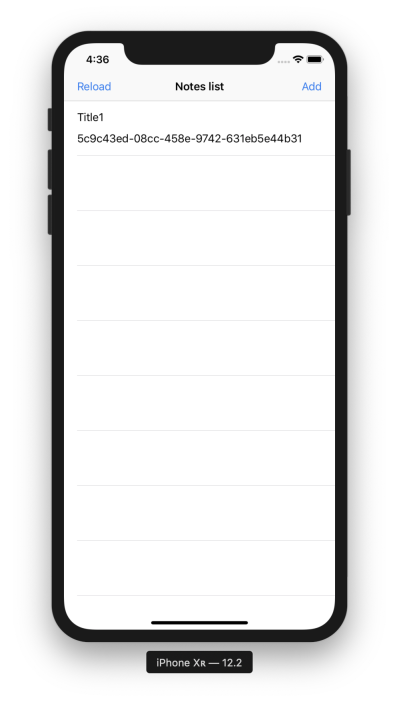
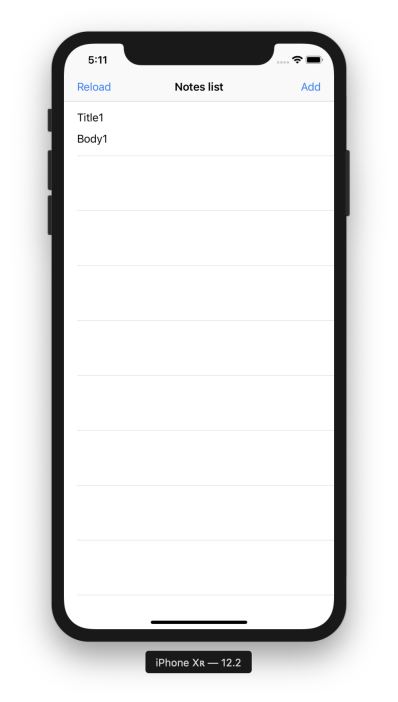
Issue #4 - Report and fix Kotlin/Native bug
Update to export classes from `app-api`.
Use `ListNotes.Note` class instead of domain `Note`.
Update READMe and images.

diff --git a/app-ios/app-ios/Rest/Deserializer.swift b/app-ios/app-ios/Rest/Deserializer.swift
@@ -10,14 +10,14 @@ import Foundation
 import app_mvp
 
 protocol Deserializer {
-    func deserializeListNotes(data: Data) throws -> App_apiListNotesResponse
-    func deserializeAddNote(data: Data) throws -> App_apiAddNoteResponse
+    func deserializeListNotes(data: Data) throws -> ListNotesResponse
+    func deserializeAddNote(data: Data) throws -> AddNoteResponse
 }
 
 class JsonDeserializer : Deserializer {
     
-    func deserializeListNotes(data: Data) throws -> App_apiListNotesResponse {
-        var notes = [DomainNote]()
+    func deserializeListNotes(data: Data) throws -> ListNotesResponse {
+        var notes = [ListNotesNote]()
         do {
             let jsonWithObjectRoot = try JSONSerialization.jsonObject(with: data,
                                                                       options: JSONSerialization.ReadingOptions())
@@ -28,7 +28,7 @@ class JsonDeserializer : Deserializer {
                         guard let id = noteObject["id"] as? String else { throw RestApiError.InvalidJson } // required field
                         guard let title = noteObject["title"] as? String else { throw RestApiError.InvalidJson } // required field
                         let body = noteObject["body"] as? String // optional field
-                        let note = DomainNote(id: id, title: title, body: body)
+                        let note = ListNotesNote(id: id, title: title, body: body)
                         notes.append(note)
                     }
                 } else {
@@ -41,16 +41,16 @@ class JsonDeserializer : Deserializer {
             throw RestApiError.InvalidJson
         }
         
-        return App_apiListNotesResponse.init(notes: notes)
+        return ListNotesResponse.init(notes: notes)
     }
     
-    func deserializeAddNote(data: Data) throws -> App_apiAddNoteResponse {
+    func deserializeAddNote(data: Data) throws -> AddNoteResponse {
         do {
             let jsonWithObjectRoot = try JSONSerialization.jsonObject(with: data,
                                                                       options: JSONSerialization.ReadingOptions())
             if let rootObject = jsonWithObjectRoot as? [String: Any] {
                 if let id = rootObject["id"] as? String {
-                    return App_apiAddNoteResponse.init(id: id)
+                    return AddNoteResponse.init(id: id)
                 } else {
                     throw RestApiError.InvalidJson
                 }

diff --git a/app-ios/app-ios/Rest/RestApi.swift b/app-ios/app-ios/Rest/RestApi.swift
@@ -9,7 +9,7 @@
 import Foundation
 import app_mvp
 
-protocol RestApi : App_apiListNotes, App_apiAddNote {
+protocol RestApi : ListNotes, AddNote {
     
 }
 
@@ -55,13 +55,13 @@ class RestImpl : RestApi {
         return data!
     }
     
-    func execute() throws -> App_apiListNotesResponse {
+    func execute() throws -> ListNotesResponse {
         let url = try getUrl(relativeUrl: "/list")
         let responseData = try sendRequest(url: url)
         return try deserializer.deserializeListNotes(data: responseData)
     }
     
-    func execute(request: App_apiAddNoteRequest) throws -> App_apiAddNoteResponse {
+    func execute(request: AddNoteRequest) throws -> AddNoteResponse {
         var urlWithParams = "/add?title=\(request.title)"
         if let body = request.body {
             urlWithParams += "&body=\(body)"

diff --git a/app-ios/app-ios/UI/ListNotesViewController.swift b/app-ios/app-ios/UI/ListNotesViewController.swift
@@ -83,7 +83,7 @@ class ListNotesViewController: UITableViewController, ListNotesView {
     
     var presenter: Any?
     
-    var notes = [DomainNote]()
+    var notes = [Note]()
     
     private func showError(message: String) {
         let alert = UIAlertController(title: "List notes error",
@@ -102,7 +102,7 @@ class ListNotesViewController: UITableViewController, ListNotesView {
             case is ListNotesModel.StateLoaded:
                 self.notes.removeAll()
                 
-                for note in (_model.state as! ListNotesModel.StateLoaded).notes as! [DomainNote] {
+                for note in (_model.state as! ListNotesModel.StateLoaded).notes as! [Note] {
                     self.notes.append(note)
                 }
                 self.tableView.reloadData()

diff --git a/app-ios/app-ios/UI/AddNoteViewController.swift b/app-ios/app-ios/UI/AddNoteViewController.swift
@@ -25,7 +25,7 @@ class AddNoteViewController: UIViewController, AddNoteView {
         let appDelegate = UIApplication.shared.delegate as! AppDelegate
         let useCase = appDelegate.rest!
         
-        let note = DomainNote(title: "", body: nil)
+        let note = Note(title: "", body: nil)
         let model = AddNoteModel(useCase: useCase, note: note)
         // TODO: use BackgroundThreadManager (currently crashes for unknown reason)
         let presenter = AddNotePresenterImpl(model: model, threadManager: BlockingThreadManager())

diff --git a/README.md b/README.md
@@ -200,8 +200,6 @@ Make sure you can see added note:
 
 ![Notes list](images/app/app-ios/4_listnotes.png?raw=true)
 
-Note: currently there is Kotlin/Native bug, so note `id` is displayed instead of `body`.
-
 # Frameworks and tools
 
 * [Kotlin](https://kotlinlang.org/) programming language
